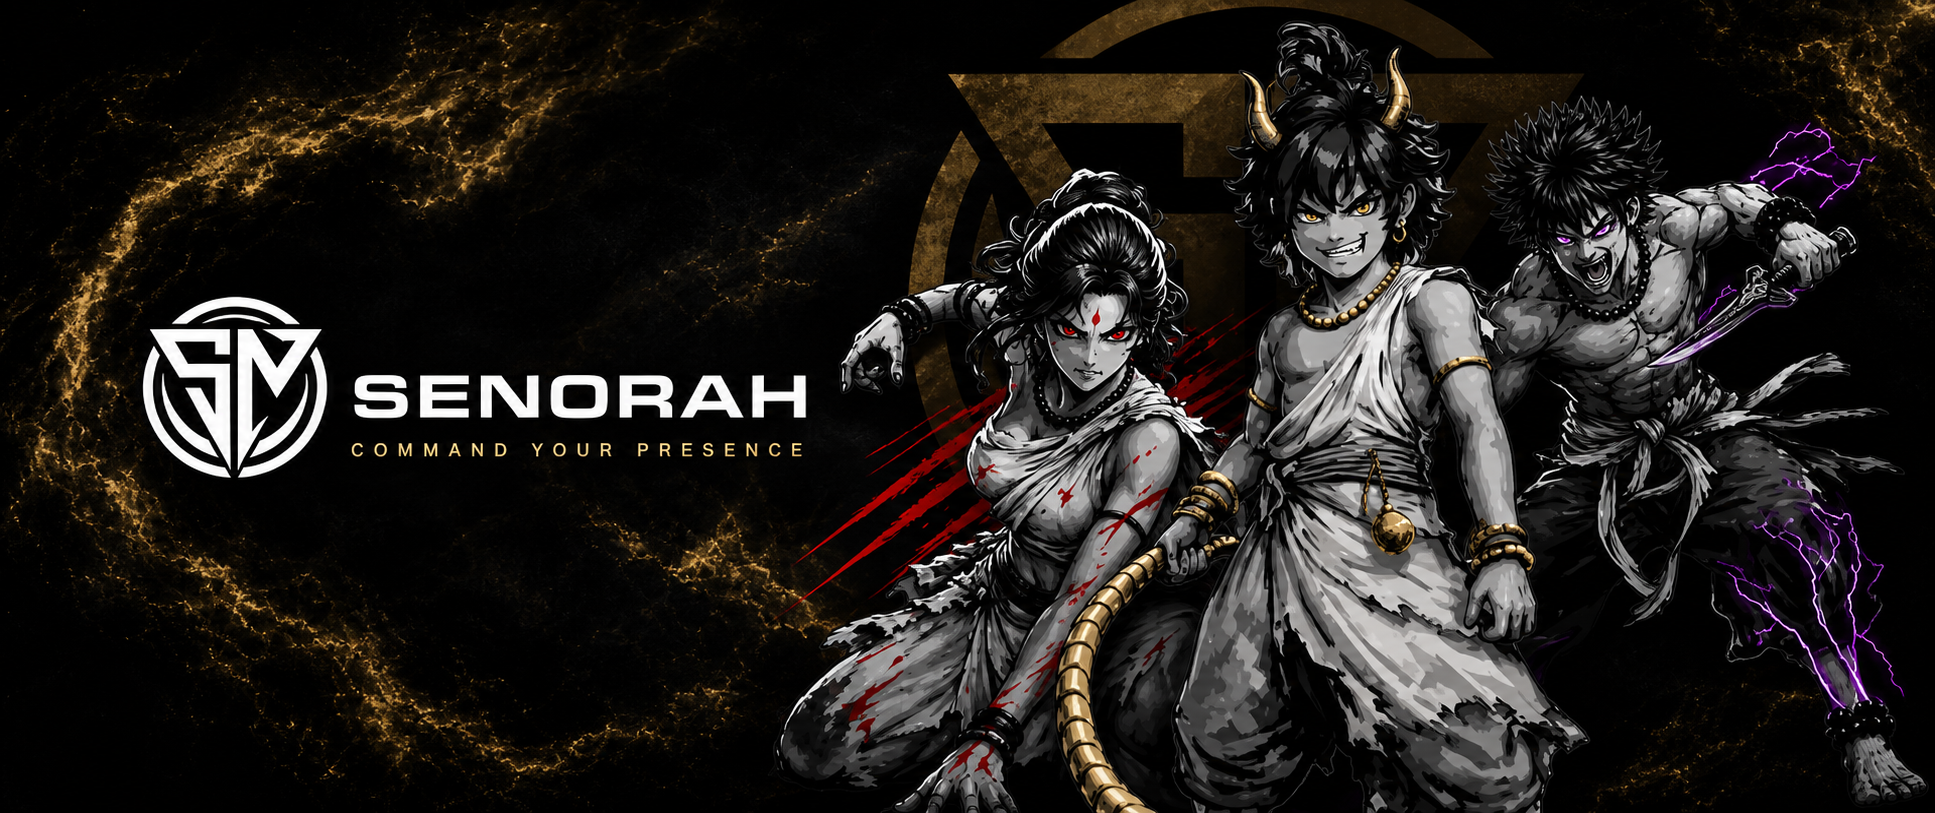
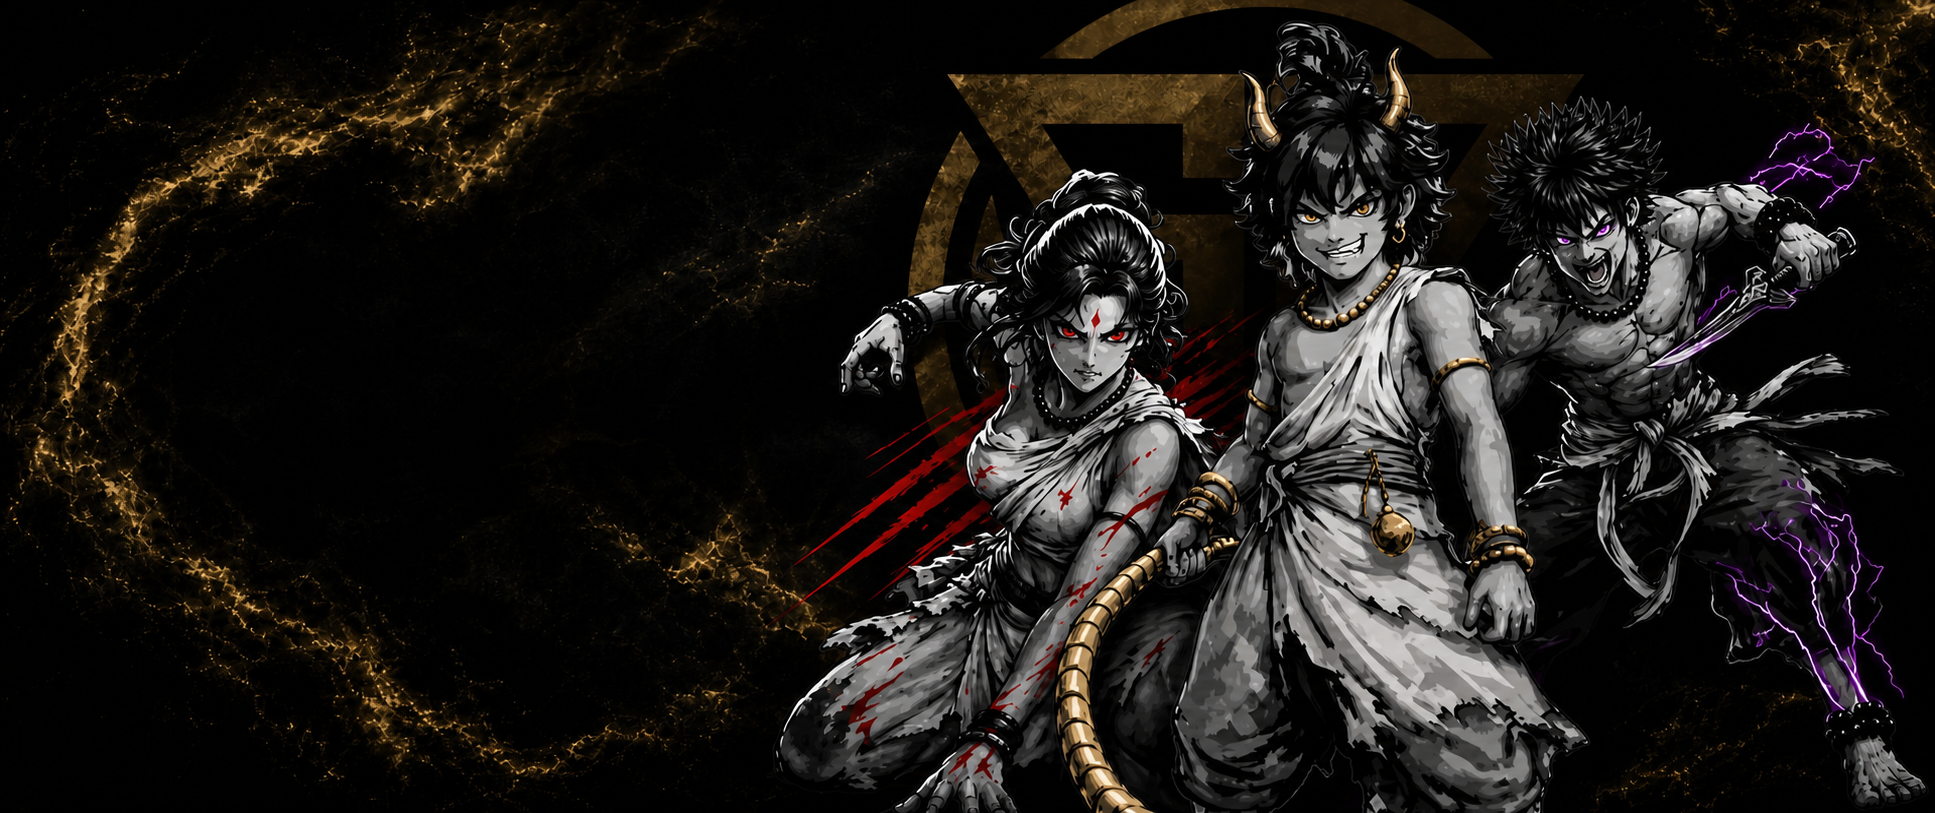
feat: update hero image and hide Our Works section

diff --git a/index.html b/index.html
@@ -148,7 +148,7 @@
                   <ul>
                     <li class="transition-el transition-el-1"><a href="#" id="home-trigger" class="home-trigger">Home</a></li>
                     <li class="transition-el transition-el-2"><a href="#" id="about-trigger" class="inner-trigger">About us</a></li>
-                    <li class="transition-el transition-el-3"><a href="#" id="works-trigger" class="inner-trigger">Our works</a></li>
+                    <!-- <li class="transition-el transition-el-3"><a href="#" id="works-trigger" class="inner-trigger">Our works</a></li> -->
                     <li class="transition-el transition-el-4"><a href="#" id="contact-trigger" class="inner-trigger">Contact</a></li>
                   </ul>
                 </nav>
@@ -451,34 +451,27 @@
     <!-- About Us Section End -->
 
     <!-- Our Works Section Start -->
-    <section id="works" class="section-inner works">
+    <!-- <section id="works" class="section-inner works">
       <div class="container-fluid p-0 fullheight">
         <div class="row g-0 fullheight">
           <div class="col-12 section-inner__content">
 
-            <!-- Section Controls Start -->
             <div class="section-inner__controls">
               <a class="button-square button-outline-dark section-close inner-close" href="#0" id="works-close">
                 <i class="fa-solid fa-arrow-left"></i>
               </a>
             </div>
-            <!-- Section Controls End -->
 
-            <!-- Section Container Start -->
             <div class="section-inner__blocks">
 
-              <!-- Section Content Block Title Start -->
               <div class="content-block">
                 <h2 class="inner__title">Our Works</h2>
                 <p class="inner__text">Be what you would seem to be – or, if you’d like it put more simply – never imagine yourself not to be otherwise than what it might appear to others that what you were or might have been was not otherwise than what you had been would have appeared to them to be otherwise.</p>
               </div>
-              <!-- Section Content Block Title End -->
 
-              <!-- Section Content Block Gallery Start -->
               <div class="content-block grid-block">
                 <div class="container-fluid px-4">
                   <div class="row gx-5 my-gallery" itemscope itemtype="http://schema.org/ImageGallery">
-                    <!-- gallery single item -->
                     <figure class="col-12 col-sm-6 my-gallery__item"  itemprop="associatedMedia" itemscope itemtype="http://schema.org/ImageObject">
                       <a href="img/works/1200x900-work-1.webp" data-image="img/works/1200x900-work-1.webp" class="works-link" itemprop="contentUrl" data-size="1200x900">
                         <img src="img/works/1200x900-work-1.webp" class="works-image" itemprop="thumbnail" alt="Image description" />
@@ -490,7 +483,6 @@
                         <p>Mauris porttitor lobortis ligula, quis molestie lorem scelerisque eu. Morbi aliquam enim odio, a mollis ipsum tristique eu.</p>
                       </figcaption>
                     </figure>
-                    <!-- gallery single item -->
                     <figure class="col-12 col-sm-6 my-gallery__item"  itemprop="associatedMedia" itemscope itemtype="http://schema.org/ImageObject">
                       <a href="img/works/1200x900-work-2.webp" data-image="img/works/1200x900-work-2.webp" class="works-link" itemprop="contentUrl" data-size="1200x900">
                         <img src="img/works/1200x900-work-2.webp" class="works-image" itemprop="thumbnail" alt="Image description" />
@@ -502,7 +494,6 @@
                         <p>Mauris porttitor lobortis ligula, quis molestie lorem scelerisque eu. Morbi aliquam enim odio, a mollis ipsum tristique eu.</p>
                       </figcaption>
                     </figure>
-                    <!-- gallery single item -->
                     <figure class="col-12 col-sm-6 my-gallery__item"  itemprop="associatedMedia" itemscope itemtype="http://schema.org/ImageObject">
                       <a href="img/works/1200x900-work-3.webp" data-image="img/works/1200x900-work-3.webp" class="works-link" itemprop="contentUrl" data-size="1200x900">
                         <img src="img/works/1200x900-work-3.webp" class="works-image" itemprop="thumbnail" alt="Image description" />
@@ -514,7 +505,6 @@
                         <p>Mauris porttitor lobortis ligula, quis molestie lorem scelerisque eu. Morbi aliquam enim odio, a mollis ipsum tristique eu.</p>
                       </figcaption>
                     </figure>
-                    <!-- gallery single item -->
                     <figure class="col-12 col-sm-6 my-gallery__item"  itemprop="associatedMedia" itemscope itemtype="http://schema.org/ImageObject">
                       <a href="img/works/1200x900-work-4.webp" data-image="img/works/1200x900-work-4.webp" class="works-link" itemprop="contentUrl" data-size="1200x900">
                         <img src="img/works/1200x900-work-4.webp" class="works-image" itemprop="thumbnail" alt="Image description" />
@@ -526,7 +516,6 @@
                         <p>Mauris porttitor lobortis ligula, quis molestie lorem scelerisque eu. Morbi aliquam enim odio, a mollis ipsum tristique eu.</p>
                       </figcaption>
                     </figure>
-                    <!-- gallery single item -->
                     <figure class="col-12 col-sm-6 my-gallery__item"  itemprop="associatedMedia" itemscope itemtype="http://schema.org/ImageObject">
                       <a href="img/works/1200x900-work-5.webp" data-image="img/works/1200x900-work-5.webp" class="works-link" itemprop="contentUrl" data-size="1200x900">
                         <img src="img/works/1200x900-work-5.webp" class="works-image" itemprop="thumbnail" alt="Image description" />
@@ -538,7 +527,6 @@
                         <p>Mauris porttitor lobortis ligula, quis molestie lorem scelerisque eu. Morbi aliquam enim odio, a mollis ipsum tristique eu.</p>
                       </figcaption>
                     </figure>
-                    <!-- gallery single item -->
                     <figure class="col-12 col-sm-6 my-gallery__item"  itemprop="associatedMedia" itemscope itemtype="http://schema.org/ImageObject">
                       <a href="img/works/1200x900-work-6.webp" data-image="img/works/1200x900-work-6.webp" class="works-link" itemprop="contentUrl" data-size="1200x900">
                         <img src="img/works/1200x900-work-6.webp" class="works-image" itemprop="thumbnail" alt="Image description" />
@@ -553,15 +541,14 @@
                   </div>
                 </div>
               </div>
-              <!-- Section Content Block Gallery End -->
 
             </div>
-            <!-- Section Container End -->
 
           </div>
         </div>
       </div>
-    </section>
+    </section> -->
+    <!-- Our Works Section End -->
     <!-- Our Works Section End -->
 
     <!-- Contact Section Start -->
